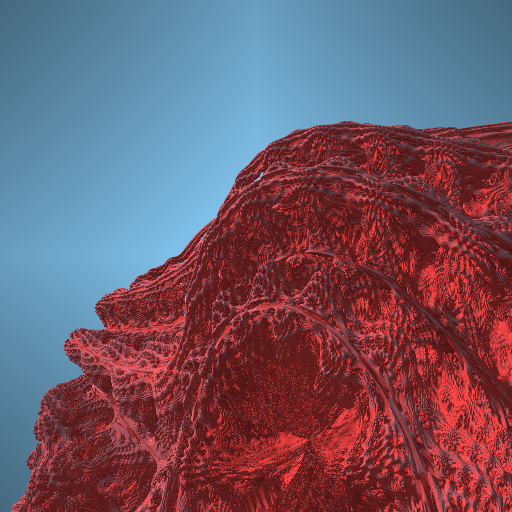
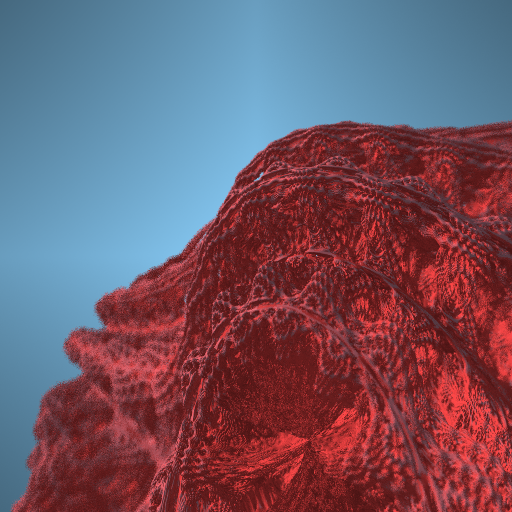
Implement depth of field effect

diff --git a/source/scene.cpp b/source/scene.cpp
@@ -7,8 +7,8 @@
 
 #include <algorithm>
 #include <cmath>
-#include <iostream>
 #include <limits>
+#include <random>
 
 using namespace std;
 
@@ -38,7 +38,7 @@ Color Scene::trace(Ray const &ray, unsigned depth)
 
     // No hit? Return background color.
     if (!obj)
-        return sampleBackground(ray);
+        return sampleBackground(ray, depth);
 
     Material const &material = obj->material;
     Point hit = ray.at(min_hit.t);
@@ -158,6 +158,10 @@ void Scene::render(Image &img)
     unsigned h = img.height();
     aspectRatio = static_cast<double>(w) / static_cast<double>(h);
 
+    std::random_device randomDevice;
+    std::default_random_engine randomEngine(randomDevice());
+    std::uniform_real_distribution<double> uniformDistribution(-1.0, 1.0);
+
     for (unsigned y = 0; y < h; ++y)
     {
         for (unsigned x = 0; x < w; ++x)
@@ -179,8 +183,21 @@ void Scene::render(Image &img)
                     Point pixel(pixelX, pixelY, -1.0); // The camera looks along the negative z-axis, hence the -1.0.
                     pixel.rotate(rotation);
 
-                    // Trace the ray.
+                    // Determine the focal point.
                     Ray ray(eye, pixel.normalized());
+                    Point focalPoint = ray.O + focalLength * ray.D;
+
+                    // Shift the ray origin to simulate depth of field.
+                    Point origin(ray.O);
+                    origin.x += uniformDistribution(randomEngine) * depthOfFieldStrength;
+                    origin.y += uniformDistribution(randomEngine) * depthOfFieldStrength;
+                    ray.O = origin;
+
+                    // Recalculate the ray direction.
+                    Vector direction = (focalPoint - ray.O).normalized();
+                    ray.D = direction;
+
+                    // Trace the ray.
                     color += trace(ray, recursionDepth).clamp();
                 }
             }
@@ -190,10 +207,10 @@ void Scene::render(Image &img)
     }
 }
 
-Color Scene::sampleBackground(Ray const &ray) const
+Color Scene::sampleBackground(Ray const &ray, unsigned depth) const
 {
     // If this ray came directly from the camera, we return a gradient background color.
-    if (ray.O == eye)
+    if (depth == recursionDepth)
     {
         // Determine the central view ray.
         Vector central(0.0, 0.0, -1.0);
@@ -231,7 +248,9 @@ Scene::Scene()
     renderShadows(false),
     recursionDepth(0),
     supersamplingFactor(1),
-    backgroundColor()
+    backgroundColor(),
+    depthOfFieldStrength(0.0),
+    focalLength(1.0)
 {}
 
 void Scene::addObject(ObjectPtr obj)
@@ -287,4 +306,14 @@ void Scene::setSuperSample(unsigned factor)
 void Scene::setBackgroundColor(Triple const &color)
 {
     backgroundColor = color;
+}
+
+void Scene::setDepthOfFieldStrength(double strength)
+{
+    depthOfFieldStrength = strength;
+}
+
+void Scene::setFocalLength(double length)
+{
+    focalLength = length;
 }

diff --git a/source/scene.h b/source/scene.h
@@ -24,6 +24,8 @@ class Scene
     unsigned recursionDepth;
     unsigned supersamplingFactor;
     Color backgroundColor;
+    double depthOfFieldStrength;
+    double focalLength;
 
     // Offset multiplier. Before casting a new ray from a hit point,
     // move the hit point in the direction of the normal with this offset
@@ -52,12 +54,14 @@ class Scene
         void setRecursionDepth(unsigned depth);
         void setSuperSample(unsigned factor);
         void setBackgroundColor(Triple const &color);
+        void setDepthOfFieldStrength(double strength);
+        void setFocalLength(double length);
 
         unsigned getNumObject();
         unsigned getNumLights();
 
     private:
-        Color sampleBackground(Ray const &ray) const;
+        Color sampleBackground(Ray const &ray, unsigned depth) const;
 };
 
 #endif

diff --git a/source/raytracer.cpp b/source/raytracer.cpp
@@ -273,6 +273,18 @@ try
         scene.setBackgroundColor(backgroundColor);
     }
 
+    if (jsonscene.count("DepthOfFieldStrength"))
+    {
+        double strength = jsonscene["DepthOfFieldStrength"];
+        scene.setDepthOfFieldStrength(strength);
+    }
+
+    if (jsonscene.count("FocalLength"))
+    {
+        double length = jsonscene["FocalLength"];
+        scene.setFocalLength(length);
+    }
+
     for (auto const &lightNode : jsonscene["Lights"])
         scene.addLight(parseLightNode(lightNode));
 
